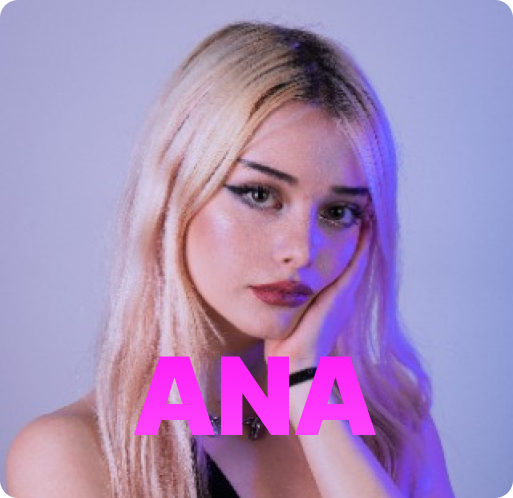
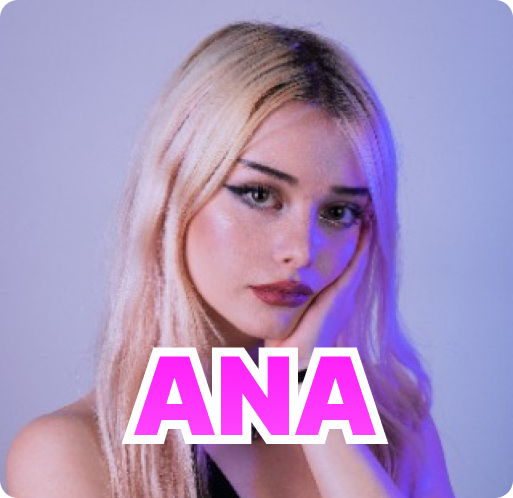
ui improvements and creation of contenders pages

Changed region(s): [[0.2183, 0.6928, 0.7797, 0.9036]]

diff --git a/resources/views/participants.blade.php b/resources/views/participants.blade.php
@@ -1,14 +1,16 @@
 @extends('layouts.default')
 @section('content')
+<div class="content">
 <link rel="stylesheet" href="{{ asset('css/app.css') }}">
 
 <h1 class="participants">Participants</h1>
-<form>
+<form class="select">
   <select name="team" id="teams">
     <option value="Yverdon">Yverdon-les-bains</option>
     <option value="Vaud">Vaud</option>
   </select>
 </form>
+
 
 <!-- Participants Yverdon -->
 <div class="participants-list yverdon">
@@ -49,6 +51,7 @@
         @component('components.participants', ['name' => 'Ana', 'image' => 'participants/Ana.png'])
         @endcomponent
 </div>
+</div>
 
 <script>
 document.getElementById('teams').addEventListener('change', function() {
@@ -70,20 +73,77 @@ document.getElementById('teams').addEventListener('change', function() {
 
 
     <style>
-        .participants{
-            font-family: var(--h1-font-family);
-            font-weight: var(--h1-font-weight);
-            font-size: var(--h1-font-size);
-        }
-        .participants-list {
-            display: grid;
-            grid-template-columns: repeat(2, 1fr);
-            grid-gap: 18px; /* Adjust as needed */
-        }
-        
-        .hidden {
-            display: none;
-        }
+    .content{
+        margin-right: 40px;
+        margin-left: 40px;
+        margin-bottom: 40px;
+    }
+    .participants{
+        font-family: var(--h1-font-family);
+        font-weight: var(--h1-font-weight);
+        font-size: var(--h1-font-size);
+    }
+    .participants-list {
+        display: grid;
+        grid-template-columns: repeat(2, 1fr);
+        grid-gap: 18px; /* Adjust as needed */
+    }
+    
+    .hidden {
+        display: none;
+    }
+
+
+    /* ------------- */
+    :root {
+  --gray: var(--orange-3);
+  --darkgray: var(--orange-3);
+}
+
+select {
+  /* Reset Select */
+  appearance: none;
+  outline: 10px red;
+  border: 0;
+  box-shadow: none;
+  /* Personalize */
+  flex: 1;
+  padding: 0 1em;
+  color: #fff;
+  background-color: var(--orange-3); 
+  background-image: none;
+  cursor: pointer;
+}
+/* Remove IE arrow */
+select::-ms-expand {
+  display: none;
+}
+/* Custom Select wrapper */
+.select {
+  position: relative;
+  display: flex;
+  width: 20em;
+  height: 3em;
+  border-radius: .25em;
+  overflow: hidden;
+  margin-bottom: 20px
+}
+/* Arrow */
+.select::after {
+  content: '\25BC';
+  position: absolute;
+  top: 0;
+  right: 0;
+  padding: 1em;
+  background-color: var(--orange-2);
+  transition: .25s all ease;
+  pointer-events: none;
+}
+/* Transition */
+.select:hover::after {
+  color: white;
+}
+
     </style>
 <!-- Participants Vaud -->
 @stop

diff --git a/app/Http/Controllers/PageController.php b/app/Http/Controllers/PageController.php
@@ -57,4 +57,84 @@ class PageController extends Controller
     {
         return view('participants');
     }
+
+    public function omar()
+    {
+        return view('participants/omar');
+    }
+
+    public function ambre()
+    {
+        return view('participants/ambre');
+    }
+
+    public function julie()
+    {
+        return view('participants/julie');
+    }
+
+    public function aron()
+    {
+        return view('participants/aron');
+    }
+
+    public function sofia()
+    {
+        return view('sofia');
+    }
+
+    public function julien()
+    {
+        return view('participants/julien');
+    }
+
+    public function theo()
+    {
+        return view('participants/theo');
+    }
+
+    public function lea()
+    {
+        return view('participants/lea');
+    }
+
+    public function max()
+    {
+        return view('participants/max');
+    }
+
+    public function ela()
+    {
+        return view('participants/ela');
+    }
+
+    public function lou()
+    {
+        return view('participants/lou');
+    }
+
+    public function lionel()
+    {
+        return view('participants/lionel');
+    }
+
+    public function andrea()
+    {
+        return view('participants/andrea');
+    }
+
+    public function marie()
+    {
+        return view('participants/marie');
+    }
+
+    public function jean()
+    {
+        return view('participants/jean');
+    }
+
+    public function ana()
+    {
+        return view('participants/ana');
+    }
 }

diff --git a/routes/web.php b/routes/web.php
@@ -30,4 +30,26 @@ Route::get('/parametre', [PageController::class, 'parametre'])->name('parametre'
 Route::get('/participants', [PageController::class, 'participants'])->name('participants');
 
 
+//participants 
+Route::get('/omar', [PageController::class, 'omar'])->name('omar');
+Route::get('/ambre', [PageController::class, 'ambre'])->name('ambre');
+Route::get('/julie', [PageController::class, 'julie'])->name('julie');
+Route::get('/aron', [PageController::class, 'aron'])->name('aron');
+Route::get('/sofia', [PageController::class, 'sofia'])->name('sofia');
+Route::get('/julien', [PageController::class, 'julien'])->name('julien');
+Route::get('/theo', [PageController::class, 'theo'])->name('theo');
+Route::get('/lea', [PageController::class, 'lea'])->name('lea');
+
+Route::get('/max', [PageController::class, 'max'])->name('max');
+Route::get('/ela', [PageController::class, 'ela'])->name('ela');
+Route::get('/lou', [PageController::class, 'lou'])->name('lou');
+Route::get('/lionel', [PageController::class, 'lionel'])->name('lionel');
+Route::get('/andrea', [PageController::class, 'andrea'])->name('andrea');
+Route::get('/marie', [PageController::class, 'marie'])->name('marie');
+Route::get('/jean', [PageController::class, 'jean'])->name('jean');
+Route::get('/ana', [PageController::class, 'ana'])->name('ana');
+
+
+
+
 require __DIR__ . '/auth.php';

diff --git a/resources/views/concept.blade.php b/resources/views/concept.blade.php
@@ -1,5 +1,6 @@
 @extends('layouts.default')
 @section('content')
+<div class="content">
 <h1>Le concept</h1>
 <p>Deux équipes de 8 personnes, l'une composée d'habitants d'Yverdon et l'autre de représentants des grandes villes romandes, s'affrontent dans une villa divisée en deux parties : une luxueuse et une simpliste.<br><br>
 
@@ -7,11 +8,16 @@ Chaque week-end, des défis rapportent des points. L'équipe perdante vit dans l
 
 Le candidat qui gagne le grand défi du week-end peut éliminer l’adversaire de son choix. <br><br>
 
-Retrouver un épisode par semaine sur notre chaîne YouTube ainsi que la grande finale en direct sur Twitch le 18 juin 2026 !<br><br>
+Retrouver un épisode par semaine sur notre chaîne YouTube ainsi que la grande finale en direct sur Twitch le 18 juin 2026 !<br><br></p>
+</div>
 
 @stop
 
 <style>
+ .content{
+    margin-left: 40px !important;
+    margin-right:40px !important;
 
+ }
 </style>
 

diff --git a/resources/views/participants/omar.blade.php b/resources/views/participants/omar.blade.php
@@ -1,0 +1,12 @@
+@extends('layouts.default')
+@section('content')
+<!DOCTYPE html>
+<html lang="fr">
+<head>
+    <title>Contactez-nous</title>
+</head>
+<body>
+    <h1>OMAR mange du caca</h1>
+</body>
+</html>
+@stop
